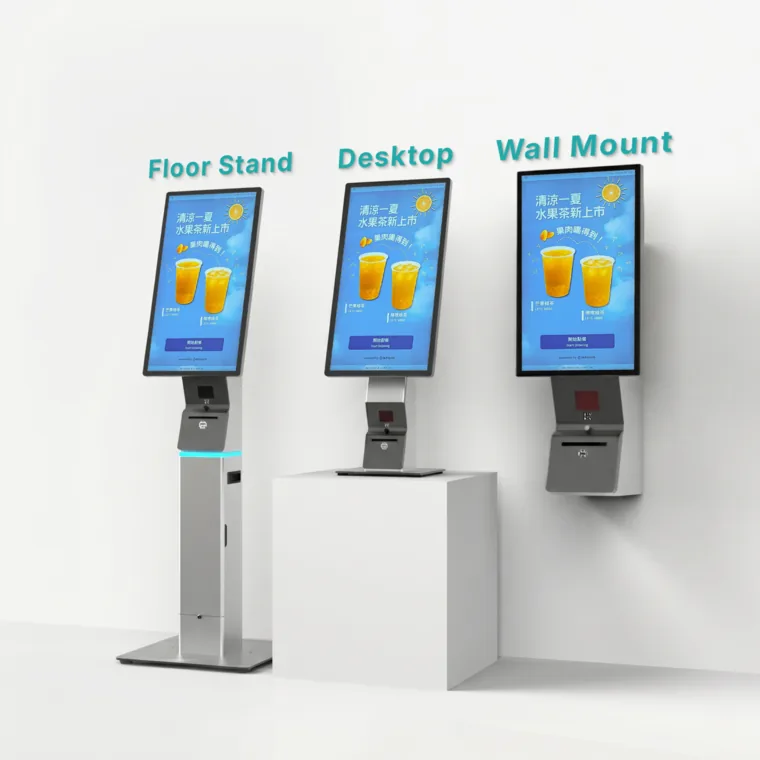
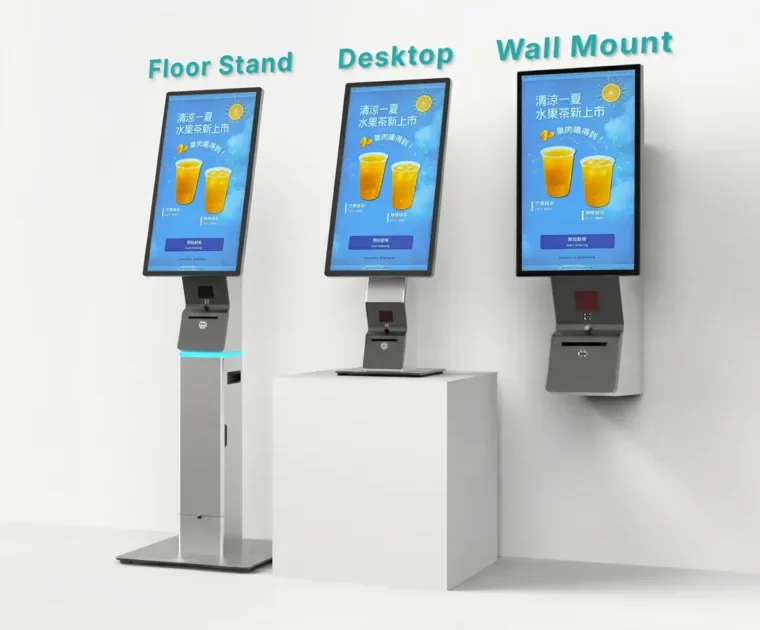
fix(hardware): crop XELFII-8 whitespace instead of scaling (no longer overlaps text)
The scale(1.2) on the 5th card overflowed onto its description. Crop the image's
empty top/bottom space so the kiosks fill the frame naturally, and drop the scale.

diff --git a/style.css b/style.css
@@ -2633,10 +2633,6 @@ td.col-autopos strong {
 }
 /* hover-zoom on XELF II cards grows downward so it never covers the assemble above */
 .hw-section .ap-one-feat-card { transform-origin: top center; }
-/* 5th card (XELFII-8) reads small — enlarge its product 20% */
-.hw-section .ap-one-feat-scroll .ap-one-feat-card:nth-child(5) .ap-one-feat-card-img {
-  transform: scale(1.2);
-}
 
 .ap-one-feat-card-body {
   padding: 10px 12px 12px;